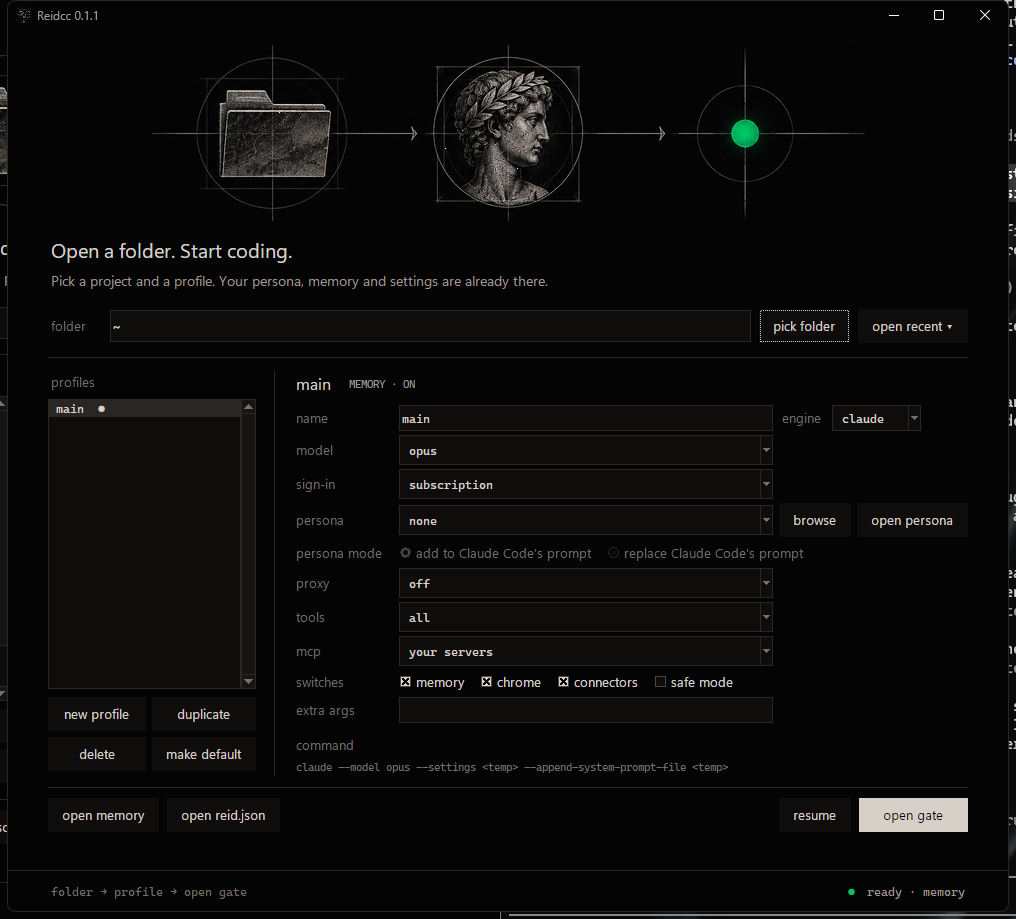
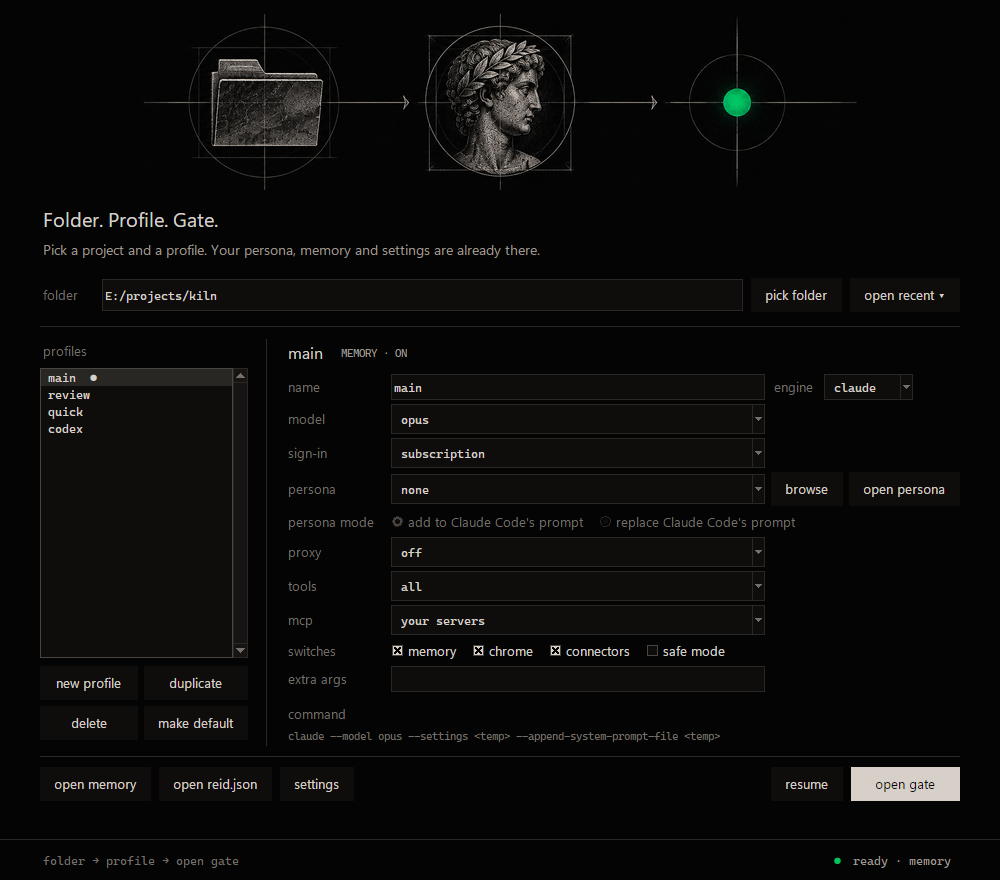
User trial fixes 5-13
5. reid --resume [profile] [args] keeps the extra args; reid --dry --resume previews it (profile, folder,
   command).
6. Codex behind a wrapper we can't see through (pnpm, volta, scoop, own .cmd) runs through it, like Claude.
7. reid -l marks a Codex profile with Claude-only fields: "won't start: an MCP choice is Claude only".
8. reid --dry -v prints the prompt and settings files it adds; cli.md says a Codex dry run writes its
   prompt file.
9. A profile name one typo off ("codex-klin") says "Did you mean codex-kiln?" instead of going to Claude.
   Unit test.
10. docs/launcher.png (and the site's launcher.webp) retaken from the 0.2.2 build: sample profiles,
    E:/projects/kiln, no other windows at the edges.
11. profiles.md: proxy, tools, mcp and switches.
12. A new reid.json leaves out memory_file (its default); personas.md says personas\ starts empty.
13. "Can't make the Reidcc folder <path> (...)" instead of a bare os error 3.

parity.py: config cases use KNOWN; config missing and -l listed. 0 differ.

Claude-Session: https://claude.ai/code/session_01BUH6zBM7ED6o78nsbfwTZX

diff --git a/rs/cli/src/main.rs b/rs/cli/src/main.rs
@@ -13,9 +13,10 @@ const HELP: &str = r#"reid -- Reidcc, in the terminal.
     reid                      open the Reidcc TUI (pick, edit, open gate, resume)
     reid <profile> [args]     start a session with that profile; extra args go to its engine
     reid -c / reid "do X"     anything that isn't a profile goes to the default profile's engine
-    reid --resume [profile]   continue the last session, with that profile or the one it had
+    reid --resume [profile]   continue the last session (that profile, or the one it had)
     reid -l                   list profiles
     reid --dry [profile]      print what would run, don't run it
+    reid --dry -v [profile]   ... and the prompt and settings files it adds
     reid --edit / --mem       open reid.json / the memory file
     reid --tui / --gui        force the TUI or the window
     reid --version            show the Reidcc version
@@ -85,6 +86,21 @@ fn open_gui(from_terminal: bool) -> i32 {
     1
 }
 
+/// What `reid --resume [profile] [args]` continues: the profile (named, else the last session's, else the
+/// default), the last session's folder, its id ("-c" when there's none) and the extra args.
+fn resume_target(ctx: &Ctx, cfg: &reidcc::Obj, rest: &[String]) -> (String, String, String, Vec<String>) {
+    let last = load_state(ctx).get("last").and_then(|v| v.as_object().cloned()).unwrap_or_default();
+    let s = |k: &str| reidcc::text(&last, k);
+    let (name, extra) = match rest.first() {
+        Some(n) if profiles(cfg).contains_key(n) => (n.clone(), rest[1..].to_vec()),
+        _ if !s("profile").is_empty() => (s("profile"), rest.to_vec()),
+        _ => (default_profile(cfg).to_string(), rest.to_vec()),
+    };
+    let cwd = if !s("cwd").is_empty() && py::isdir(&s("cwd")) { s("cwd") } else { py::getcwd() };
+    let sid = if s("sid").is_empty() { "-c".to_string() } else { s("sid") };
+    (name, cwd, sid, extra)
+}
+
 fn run(ctx: &'static Ctx, mut args: Vec<String>) -> R<i32> {
     let a0 = args.first().cloned().unwrap_or_default();
     match a0.as_str() {
@@ -106,18 +122,10 @@ fn run(ctx: &'static Ctx, mut args: Vec<String>) -> R<i32> {
             return Ok(open_gui(false));
         }
         "--resume" => {
-            // reid --resume [profile]: continue the last session
+            // reid --resume [profile] [args]: continue the last session
             let cfg = load_config(ctx)?;
-            let last = load_state(ctx).get("last").and_then(|v| v.as_object().cloned()).unwrap_or_default();
-            let s = |k: &str| reidcc::text(&last, k);
-            let name = match args.get(1) {
-                Some(n) if profiles(&cfg).contains_key(n) => n.clone(),
-                _ if !s("profile").is_empty() => s("profile"),
-                _ => default_profile(&cfg).to_string(),
-            };
-            let cwd = if !s("cwd").is_empty() && py::isdir(&s("cwd")) { s("cwd") } else { py::getcwd() };
-            let sid = if s("sid").is_empty() { "-c".to_string() } else { s("sid") };
-            let end = session::run(ctx, &cfg, &name, &cwd, &[], Some(&sid))?;
+            let (name, cwd, sid, extra) = resume_target(ctx, &cfg, &args[1..]);
+            let end = session::run(ctx, &cfg, &name, &cwd, &extra, Some(&sid))?;
             if let Some(rc) = session::window_end(&end) {
                 return Ok(rc);
             }
@@ -161,9 +169,36 @@ fn run(ctx: &'static Ctx, mut args: Vec<String>) -> R<i32> {
     if dry {
         args.remove(0);
     }
+    // --dry -v: also print the prompt / settings files' text (they're deleted after the preview)
+    let show = dry && args.first().map(String::as_str) == Some("-v");
+    if show {
+        args.remove(0);
+    }
+    if dry && args.first().map(String::as_str) == Some("--resume") {
+        // the resume preview: what `reid --resume [profile] [args]` would run, and where
+        let (name, cwd, sid, extra) = resume_target(ctx, &cfg, &args[1..]);
+        let mut launch = engines::build(ctx, &cfg, &name, &extra, Some(&cwd), true)?;
+        launch.remove_temps();
+        if sid == "-c" || !session::session_exists(&sid) {
+            launch.argv.push("-c".into());
+        } else {
+            launch.argv.extend(["--resume".into(), sid]);
+        }
+        out!("profile: {name}  ({})", profile::summary(ctx, &cfg, &name));
+        out!("folder:  {}", reidcc::show_path(&cwd));
+        out!("{}", py::list2cmdline(&launch.argv));
+        return Ok(0);
+    }
     let (name, extra) = match args.first() {
         Some(n) if profiles(&cfg).contains_key(n) => (n.clone(), args[1..].to_vec()),
-        _ => (default_profile(&cfg).to_string(), args.clone()),
+        Some(n) => {
+            // anything that isn't a profile goes to the engine, unless it's a profile name mistyped
+            if let Some(near) = profiles(&cfg).keys().find(|p| one_edit(p, n)) {
+                return reidcc::err(format!("There's no profile {n}. Did you mean {near}?"));
+            }
+            (default_profile(&cfg).to_string(), args.clone())
+        }
+        None => (default_profile(&cfg).to_string(), args.clone()),
     };
     let empty = reidcc::Obj::new();
     let prof = profiles(&cfg).get(&name).and_then(|v| v.as_object()).unwrap_or(&empty);
@@ -192,10 +227,16 @@ fn run(ctx: &'static Ctx, mut args: Vec<String>) -> R<i32> {
         let pp = codex::prompt_path(ctx, &name);
         if is_codex(prof) && py::exists(&pp) && launch.argv.iter().any(|a| a.contains("model_instructions_file=")) {
             out!("  prompt file: {}, {} chars", reidcc::show_path(&pp), py::getsize(&pp));
+            if show {
+                out!("{}", std::fs::read_to_string(&pp).unwrap_or_default());
+            }
         }
         for t in &launch.temps {
             let kind = if t.contains("reid_settings_") { "settings file" } else { "prompt file" };
             out!("  {kind}: {} chars", py::getsize(t));
+            if show {
+                out!("{}", std::fs::read_to_string(t).unwrap_or_default());
+            }
             let _ = std::fs::remove_file(t);
         }
         return Ok(0);
@@ -214,4 +255,31 @@ fn run(ctx: &'static Ctx, mut args: Vec<String>) -> R<i32> {
         return Ok(tui::Tui::new(ctx, &py::getcwd(), "Back from the session. r resumes it.").run());
     }
     Ok(end.rc)
+}
+
+/// One typo apart: a letter changed, added, dropped, or two neighbours swapped. Case alone counts too.
+fn one_edit(a: &str, b: &str) -> bool {
+    let (a, b): (Vec<char>, Vec<char>) = (a.to_lowercase().chars().collect(), b.to_lowercase().chars().collect());
+    if a == b || a.len().abs_diff(b.len()) > 1 || a.len().min(b.len()) < 3 {
+        return a == b;
+    }
+    let start = a.iter().zip(&b).take_while(|(x, y)| x == y).count();
+    let (ra, rb) = (&a[start..], &b[start..]);
+    let tail = |i: usize, j: usize| ra.get(i..) == rb.get(j..);
+    tail(1, 1) || tail(1, 0) || tail(0, 1) || (ra.len() >= 2 && rb.len() >= 2 && ra[0] == rb[1] && ra[1] == rb[0] && tail(2, 2))
+}
+
+#[cfg(test)]
+mod tests {
+    use super::one_edit;
+
+    #[test]
+    fn typos_are_one_edit_and_prompts_are_not() {
+        for (a, b) in [("codex-kiln", "codex-klin"), ("main", "mian"), ("main", "man"), ("main", "mains"), ("review", "reveiw"), ("Main", "main")] {
+            assert!(one_edit(a, b), "{a} / {b}");
+        }
+        for (a, b) in [("main", "do X"), ("main", "-c"), ("ab", "ba"), ("review", "rvwiee"), ("main", "mainly")] {
+            assert!(!one_edit(a, b), "{a} / {b}");
+        }
+    }
 }

diff --git a/rs/tests/parity.py b/rs/tests/parity.py
@@ -15,7 +15,8 @@ RS = os.path.join(os.environ.get("REIDCC_BIN") or os.path.join(REIDCC, "rs", "ta
 RS_STATUSLINE = '"%s" "--statusline"' % RS.replace("\\", "/")
 TRACEBACK = "Traceback (most recent call last)"
 # Differences accepted for stage 0, each with its reason. Anything else that differs fails.
-KNOWN = {"-l": "Rust asks Codex for its sign-in once; the Python app prints 'checking…' (user trial fix 4)",
+KNOWN = {"config missing": "a new reid.json leaves out memory_file, its default (user trial fix 12)",
+         "-l": "Rust asks Codex for its sign-in once; the Python app prints 'checking…' (user trial fix 4)",
          "--dry c-toml-bad": "TOML error wording is the toml crate's, not tomllib's (same line and column)",
          "--dry c-proxy": "Codex has its own proxy in Rust (SPEC-codex-proxy.md); the Python app still refuses it",
          "--dry c-three": "Codex has its own proxy in Rust (SPEC-codex-proxy.md); the Python app still refuses it"}
@@ -344,6 +345,10 @@ def main():
                 open(cfgp, "w", encoding="utf-8").write(text)
             r = run(which, h2, ["-l"], work)
             outs.append((r, open(cfgp, "rb").read() if os.path.exists(cfgp) else None))
+        if outs[0][0] == outs[1][0] and outs[0] != outs[1] and label in KNOWN:  # same output, the file differs
+            crashes.append(label)
+            print("known  %s: %s" % (label, KNOWN[label]))
+            continue
         print(("ok    " if outs[0] == outs[1] else "DIFF  ") + label)
         if outs[0] != outs[1]:
             fails.append(label)

diff --git a/rs/core/src/lib.rs b/rs/core/src/lib.rs
@@ -210,8 +210,8 @@ pub fn show_path(path: &str) -> String {
 
 // ---------------------------------------------------------------- config ---
 pub fn default_config() -> Value {
-    serde_json::json!({"default": "main", "memory_file": "reidcc_memory.md",
-                       "profiles": {"main": {"model": "opus", "memory": true}}})
+    // no memory_file: reidcc_memory.md is its default, and a setting at its default isn't written
+    serde_json::json!({"default": "main", "profiles": {"main": {"model": "opus", "memory": true}}})
 }
 
 /// json.dump(indent=2, ensure_ascii=False) to a temp file, then replace.
@@ -224,7 +224,8 @@ pub fn save_json(path: &str, data: &Value) -> std::io::Result<()> {
 pub fn load_config(ctx: &Ctx) -> R<Obj> {
     if !py::exists(&ctx.config) {
         let _ = std::fs::create_dir_all(&ctx.home); // first run of an installed copy: %USERPROFILE%\Reidcc
-        save_json(&ctx.config, &default_config()).map_err(|e| ReidError(e.to_string()))?;
+        save_json(&ctx.config, &default_config()).map_err(|e| ReidError(format!(
+            "Can't make the Reidcc folder {} ({e}). Set REIDCC_HOME to a folder you can write to.", ctx.home)))?;
     }
     let bad = |e: String| ReidError(format!("reid.json has an error ({e}). Fix it, then try again."));
     let text = py::read_text(&ctx.config, false).map_err(bad)?;

diff --git a/rs/core/src/engines/codex.rs b/rs/core/src/engines/codex.rs
@@ -38,6 +38,11 @@ pub fn find_codex() -> R<(String, Vec<(String, String)>)> {
     if let Some(exe) = py::which("codex.exe") {
         return Ok((exe, vec![]));
     }
+    // shortcut: a wrapper we can't see through (pnpm, volta, scoop, a .cmd of your own) runs as is, like
+    // find_claude; cmd.exe may re-parse odd quotes in its arguments. Look inside more wrappers if one breaks.
+    if let Some(shim) = py::which("codex") {
+        return Ok((shim, vec![]));
+    }
     err("Can't find Codex. Install it (npm install -g @openai/codex), then try again.")
 }
 

diff --git a/rs/core/src/profile.rs b/rs/core/src/profile.rs
@@ -53,6 +53,10 @@ pub fn summary(ctx: &Ctx, cfg: &Obj, name: &str) -> String {
             bits.push(words.into());
         }
     }
+    let claude_only = engines::claude_only_on(p);
+    if cx && !claude_only.is_empty() {
+        bits.push(format!("won't start: {} {} Claude only", claude_only.join(", "), if claude_only.len() > 1 { "are" } else { "is" }));
+    }
     bits.join(" · ")
 }
 

diff --git a/site/docs/cli.md b/site/docs/cli.md
@@ -8,11 +8,12 @@
 reid                      open the Reidcc TUI (pick, edit, open gate, resume)
 reid <profile> [args]     start a session with that profile; extra args go to its engine
 reid -c / reid "do X"     anything that isn't a profile goes to the default profile's engine
-reid --resume [profile]   continue the last session, with that profile or the one it had
+reid --resume [profile]   continue the last session (that profile, or the one it had)
 reid -l                   list profiles
 reid --version            show the Reidcc version
 reid --update             install the latest Reidcc (installed copies only)
 reid --dry [profile]      print what would run, don't run it
+reid --dry -v [profile]   ... and the prompt and settings files it adds
 reid --edit / --mem       open reid.json / the memory file
 reid --tui / --gui        force the TUI or the window
 ```
@@ -30,4 +31,10 @@ reid --tui / --gui        force the TUI or the window
 cd ~/projects/kiln
 reid main            # start main in this folder
 reid --dry review    # show the exact command review would run
+reid --dry -v review # ... and the persona / memory prompt and settings it adds
+reid --dry --resume  # what reid --resume would run, and in which folder
+reid --resume main --verbose   # continue the last session with main; extra args go along
 ```
+
+A dry run of a Codex profile writes its prompt file (`codex\prompts\<profile>.md`) and asks Codex for its
+sign-in, because the prompt file's size depends on Codex's own prompt. Claude dry runs write nothing that stays.

diff --git a/vision/Spec/README.md b/vision/Spec/README.md
@@ -15,7 +15,7 @@ hitting a wall, going public, or outside voices. That's the "why".
 | 11-17 | SPEC-codex-opencode | "let's make a spec on makeing this tool work for codex and opencode"; cut down after "i wanted to add a engine right not remakeing the hole app" | Codex built 11-19 · OpenCode not started |
 | 11-19 | SPEC-codex-signin-persona | Codex profiles had sign-in, persona and memory greyed out: "can we spec [...] for codex the signin and persona's" | built 11-19 |
 | 11-19 | SPEC-codex-proxy | his `claude` profile (codex + `proxy: capture`) was refused: "persona's don't work? what man" | built 11-23 ("All of the build proxy's [...] needs to be ported") |
-| 11-23 | SPEC-user-trial (+ results) | "act like there new users [...] what can be pushed more like a custom cli that sits on top" | run · 4/13 fixes done on dev (1–4) |
+| 11-23 | SPEC-user-trial (+ results) | "act like there new users [...] what can be pushed more like a custom cli that sits on top" | run · 13/13 fixes done on dev, not released |
 | 11-23 | SPEC-agent-cli | the trial plus his Discord poll: "The agent cli that sits on top of agent clis" | idea · Reid command center, a separate app on top of Reidcc · outside reviews added 11-25 (Part 7: plumbing, what Reidcc needs) |
 
 **Why it moved this way:** every step came from using Codex inside Reidcc and finding the gap with Claude

diff --git a/site/docs/profiles.md b/site/docs/profiles.md
@@ -14,6 +14,10 @@ A profile is a named setup: engine, model, sign-in, persona, memory and switches
 | **persona** | A Markdown file added to, or in place of, the engine's prompt. See [personas](./personas) |
 | **memory** | Adds your memory file to the session. See [memory](./memory) |
 | **args** | Extra arguments passed to the engine |
+| **proxy** | Runs the session through Reidcc's local proxy, to trim what's sent. See [proxy](./proxy) |
+| **tools** | `all`, or only the tools you tick (Claude Code) |
+| **mcp** | `your servers`, `none`, or an MCP file that replaces your servers. See [MCP servers](./reid-json#mcp-servers) |
+| **switches** | memory, Claude in Chrome, claude.ai connectors, and safe mode (no `CLAUDE.md`, none of your MCP servers) |
 
 Fields an engine can't use stay visible and greyed out, so nothing is hidden.
 

diff --git a/vision/Spec/SPEC-user-trial-results-2026-11-23.md b/vision/Spec/SPEC-user-trial-results-2026-11-23.md
@@ -1,7 +1,7 @@
 # User trial results, 2026-11-23
 
-Status (2026-11-25): **4 of 13 "fix now" items done on dev** (1–4, SPEC-agent-cli Part 7d Step A), not
-released or published.
+Status (2026-11-25): **13 of 13 "fix now" items done on dev** (SPEC-agent-cli Part 7d Step A), not
+released or published. 8, 9, 12 took the "optional" fix; 10 is retaken from the 0.2.2 release build.
 
 Run from SPEC-user-trial.md. Two testers, Reidcc 0.2.2 portable, each in its own trial folder with a fresh
 `REIDCC_HOME`, the r/ClaudeAI post (SPEC-reddit.md) and a clone of `main`. Nothing here goes into the app or

diff --git a/site/docs/personas.md b/site/docs/personas.md
@@ -4,6 +4,8 @@
 
 A persona is who the session is: a plain Markdown file in `personas\`. It's optional.
 
+A new Reidcc folder starts with no personas: `personas\` is yours to fill. `personas/plain.md` below is an example name; make the file first.
+
 ## Attaching one
 
 Pick a file in the profile's **persona** field. Then choose how it's used (for a Codex profile the labels say Codex):
